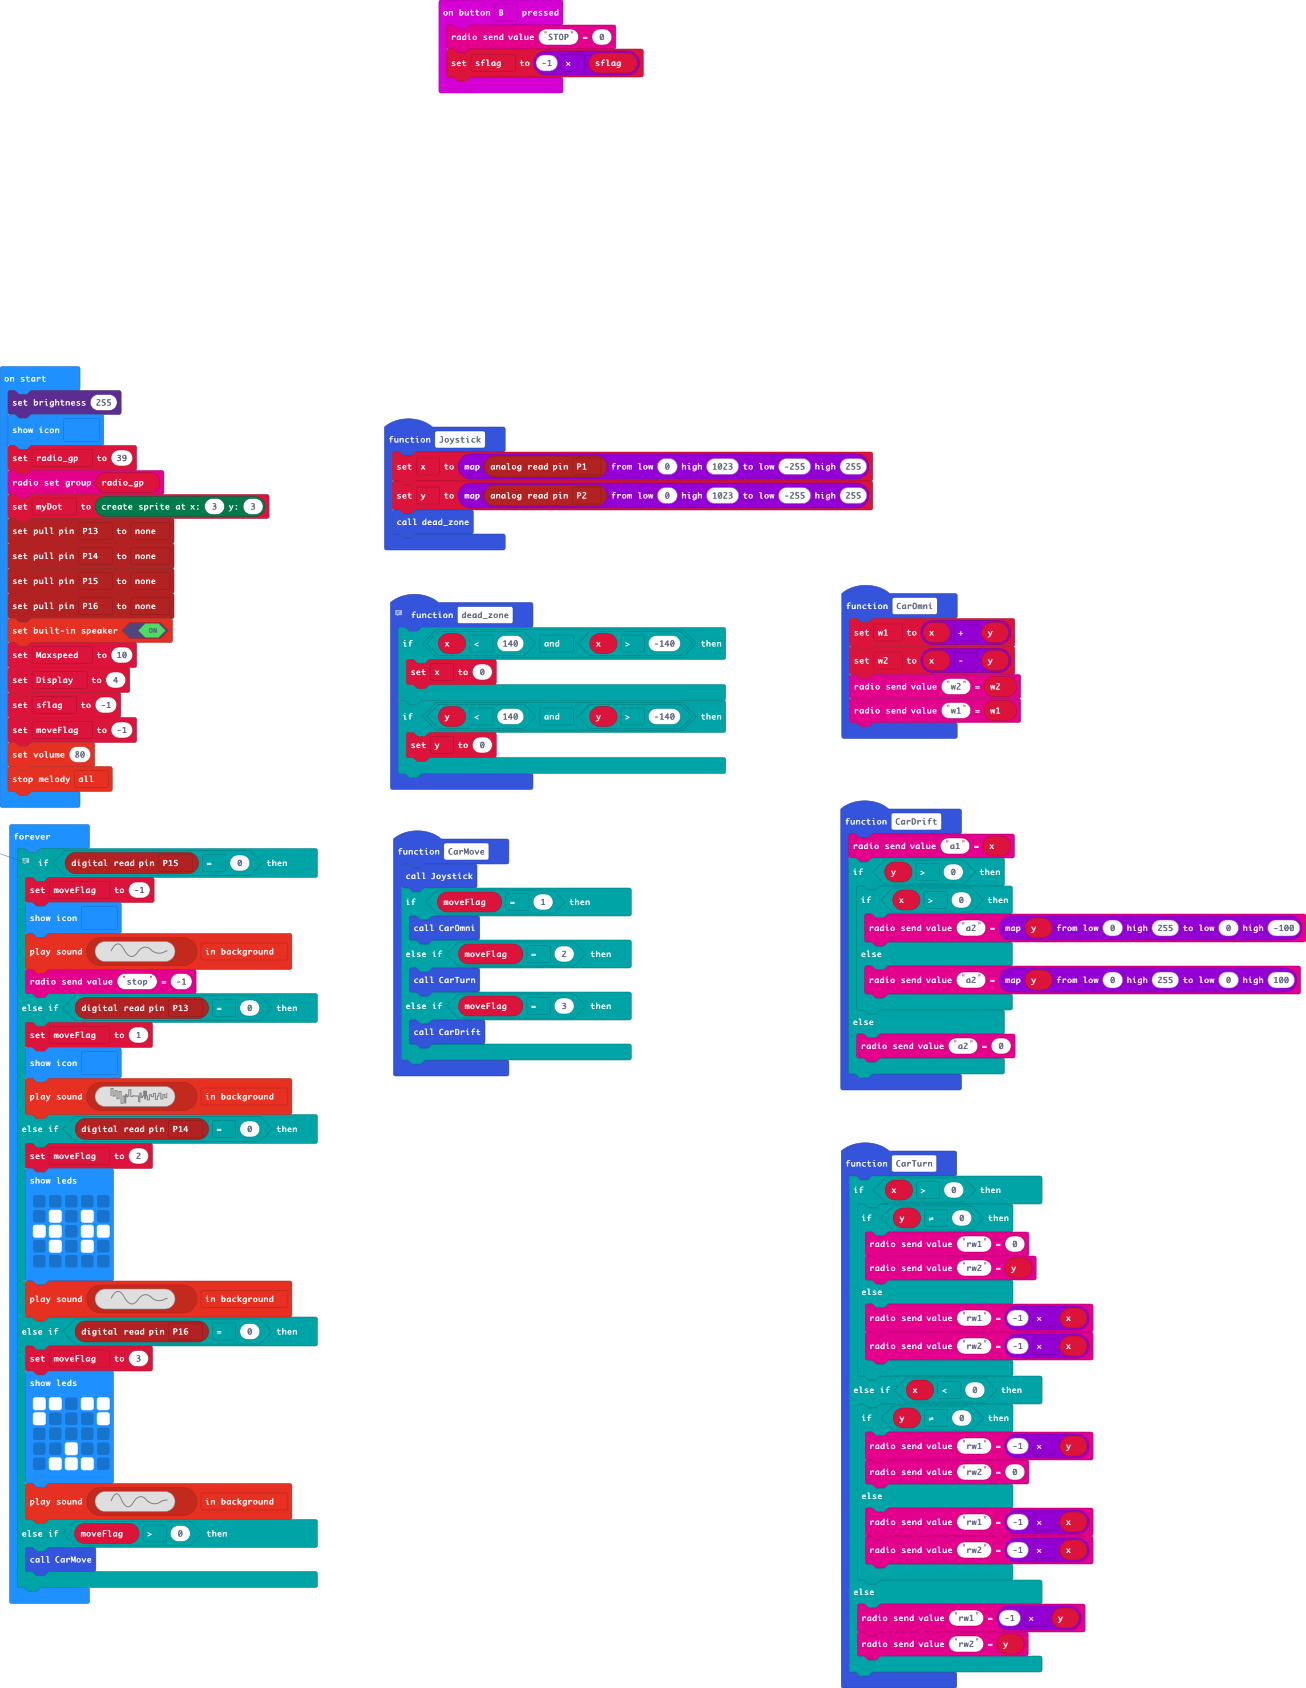
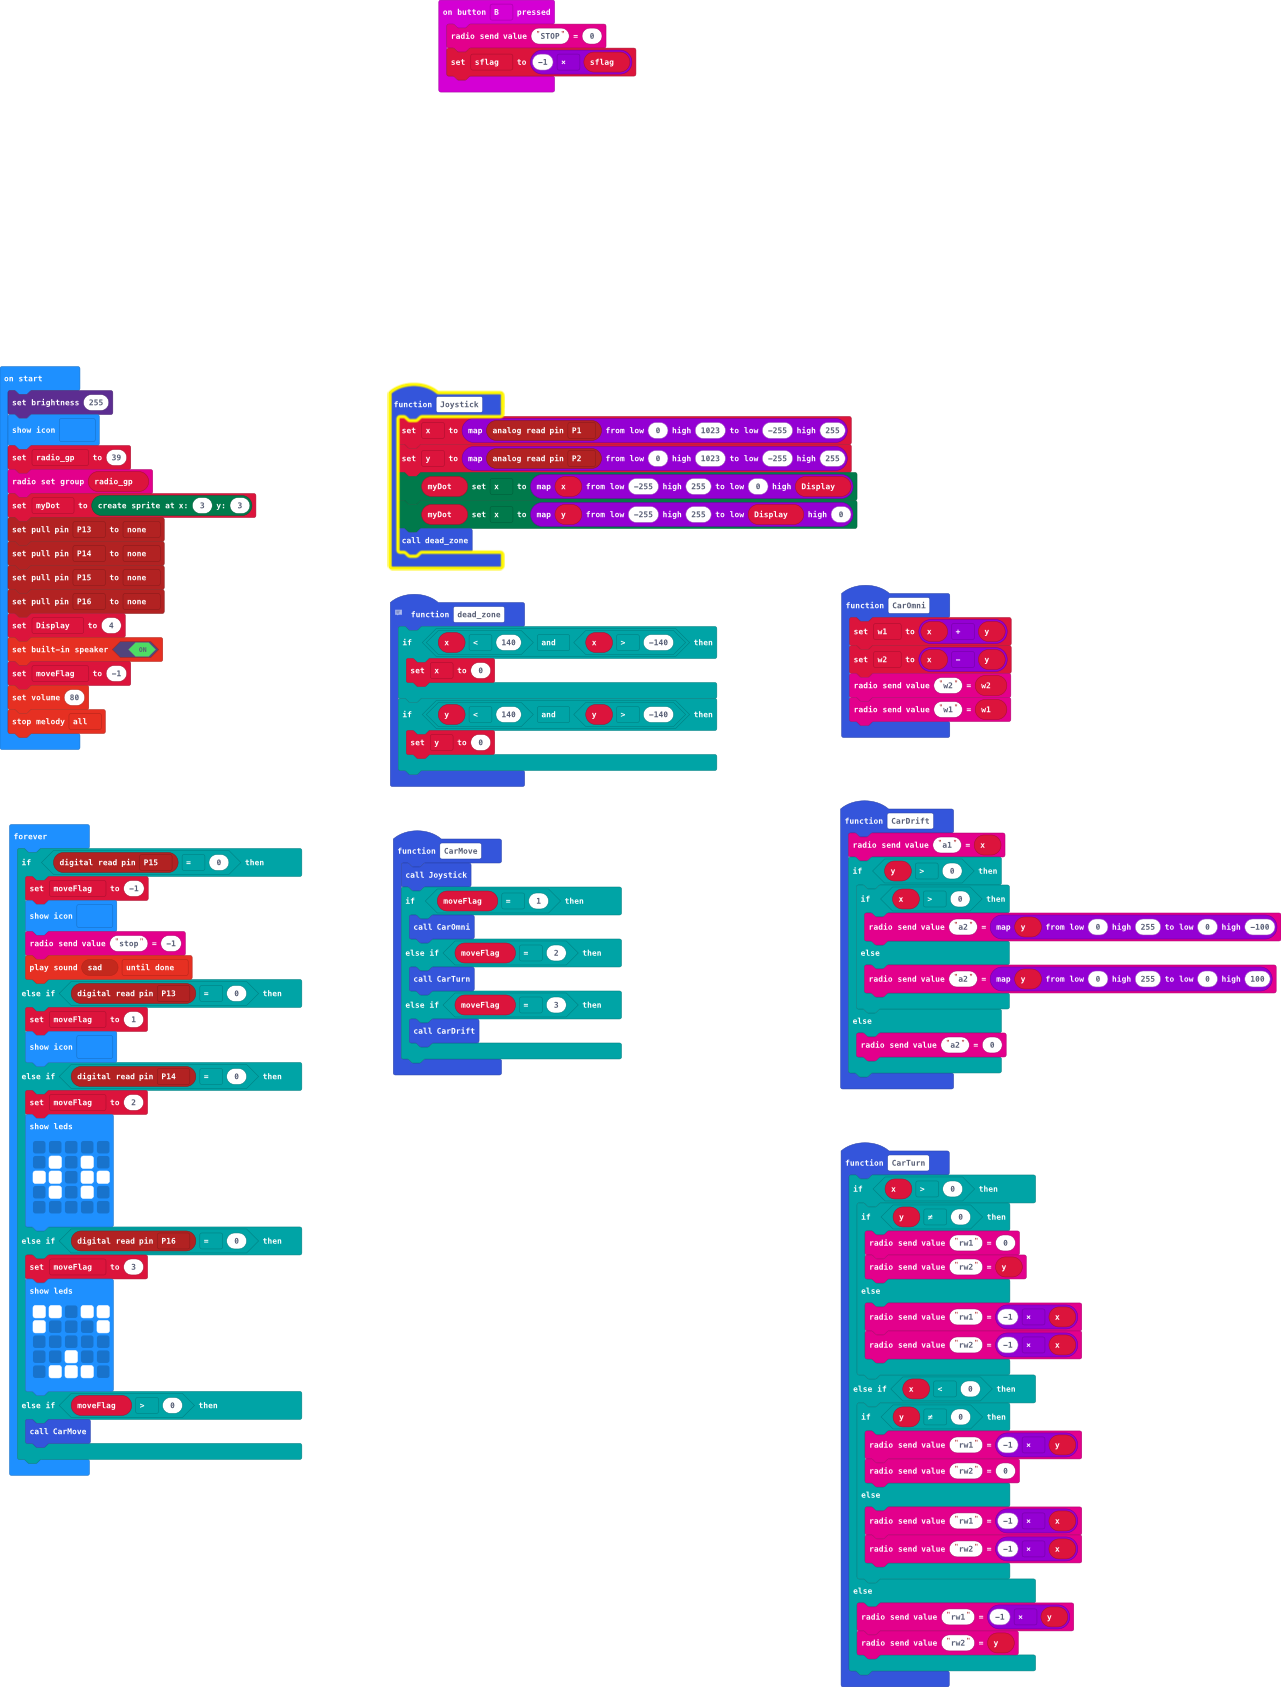
Update main.blocks, main.ts

diff --git a/main.ts b/main.ts
@@ -16,6 +16,8 @@ function CarOmni () {
 function Joystick () {
     x = Math.map(pins.analogReadPin(AnalogPin.P1), 0, 1023, -255, 255)
     y = Math.map(pins.analogReadPin(AnalogPin.P2), 0, 1023, -255, 255)
+    myDot.set(LedSpriteProperty.X, Math.map(x, -255, 255, 0, Display))
+    myDot.set(LedSpriteProperty.X, Math.map(y, -255, 255, Display, 0))
     dead_zone()
 }
 input.onButtonPressed(Button.B, function () {
@@ -66,43 +68,37 @@ function CarDrift () {
         radio.sendValue("a2", 0)
     }
 }
+let sflag = 0
 let w2 = 0
 let w1 = 0
 let y = 0
 let x = 0
 let moveFlag = 0
-let sflag = 0
+let Display = 0
+let myDot: game.LedSprite = null
 led.setBrightness(255)
 basic.showIcon(IconNames.Happy)
 let radio_gp = 39
 radio.setGroup(radio_gp)
-let myDot = game.createSprite(3, 3)
+myDot = game.createSprite(3, 3)
 pins.setPull(DigitalPin.P13, PinPullMode.PullNone)
 pins.setPull(DigitalPin.P14, PinPullMode.PullNone)
 pins.setPull(DigitalPin.P15, PinPullMode.PullNone)
 pins.setPull(DigitalPin.P16, PinPullMode.PullNone)
+Display = 4
 music.setBuiltInSpeakerEnabled(true)
-let Maxspeed = 10
-let Display = 4
-sflag = -1
 moveFlag = -1
 music.setVolume(80)
 music.stopMelody(MelodyStopOptions.All)
 basic.forever(function () {
-    // p15 Red Button = Stop (moveFlag = -1)
-    // 
-    // p13 Green Button = Go (moveFlag = 1)
-    // p14 Yellow Button = Turn (moveFlag = 2)
-    // p16 Blue Button = Drift (moveFlag = 3)
     if (pins.digitalReadPin(DigitalPin.P15) == 0) {
         moveFlag = -1
         basic.showIcon(IconNames.No)
-        music.playSoundEffect(music.createSoundEffect(WaveShape.Sine, 500, 500, 255, 0, 50, SoundExpressionEffect.Vibrato, InterpolationCurve.Linear), SoundExpressionPlayMode.InBackground)
         radio.sendValue("stop", -1)
+        music.playSoundEffect(music.builtinSoundEffect(soundExpression.sad), SoundExpressionPlayMode.UntilDone)
     } else if (pins.digitalReadPin(DigitalPin.P13) == 0) {
         moveFlag = 1
         basic.showIcon(IconNames.Happy)
-        music.playSoundEffect(music.createSoundEffect(WaveShape.Noise, 500, 499, 255, 0, 750, SoundExpressionEffect.None, InterpolationCurve.Linear), SoundExpressionPlayMode.InBackground)
     } else if (pins.digitalReadPin(DigitalPin.P14) == 0) {
         moveFlag = 2
         basic.showLeds(`
@@ -112,7 +108,6 @@ basic.forever(function () {
             . # . # .
             . . . . .
             `)
-        music.playSoundEffect(music.createSoundEffect(WaveShape.Sine, 400, 600, 255, 0, 300, SoundExpressionEffect.None, InterpolationCurve.Logarithmic), SoundExpressionPlayMode.InBackground)
     } else if (pins.digitalReadPin(DigitalPin.P16) == 0) {
         moveFlag = 3
         basic.showLeds(`
@@ -122,7 +117,6 @@ basic.forever(function () {
             . . # . .
             . # # # .
             `)
-        music.playSoundEffect(music.createSoundEffect(WaveShape.Sine, 1600, 1, 255, 0, 300, SoundExpressionEffect.None, InterpolationCurve.Curve), SoundExpressionPlayMode.InBackground)
     } else if (moveFlag > 0) {
         CarMove()
     }
